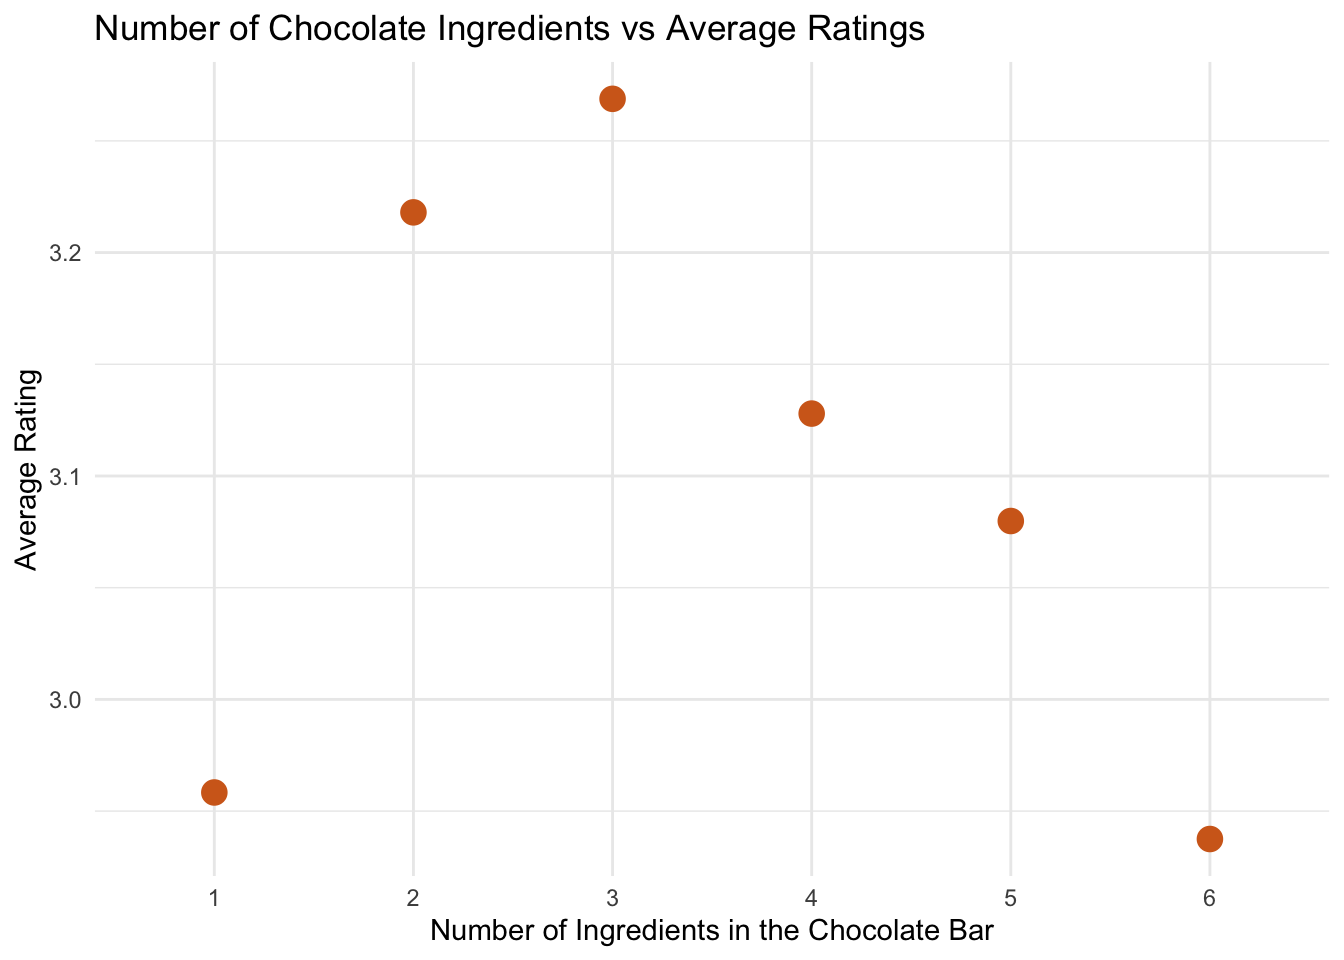
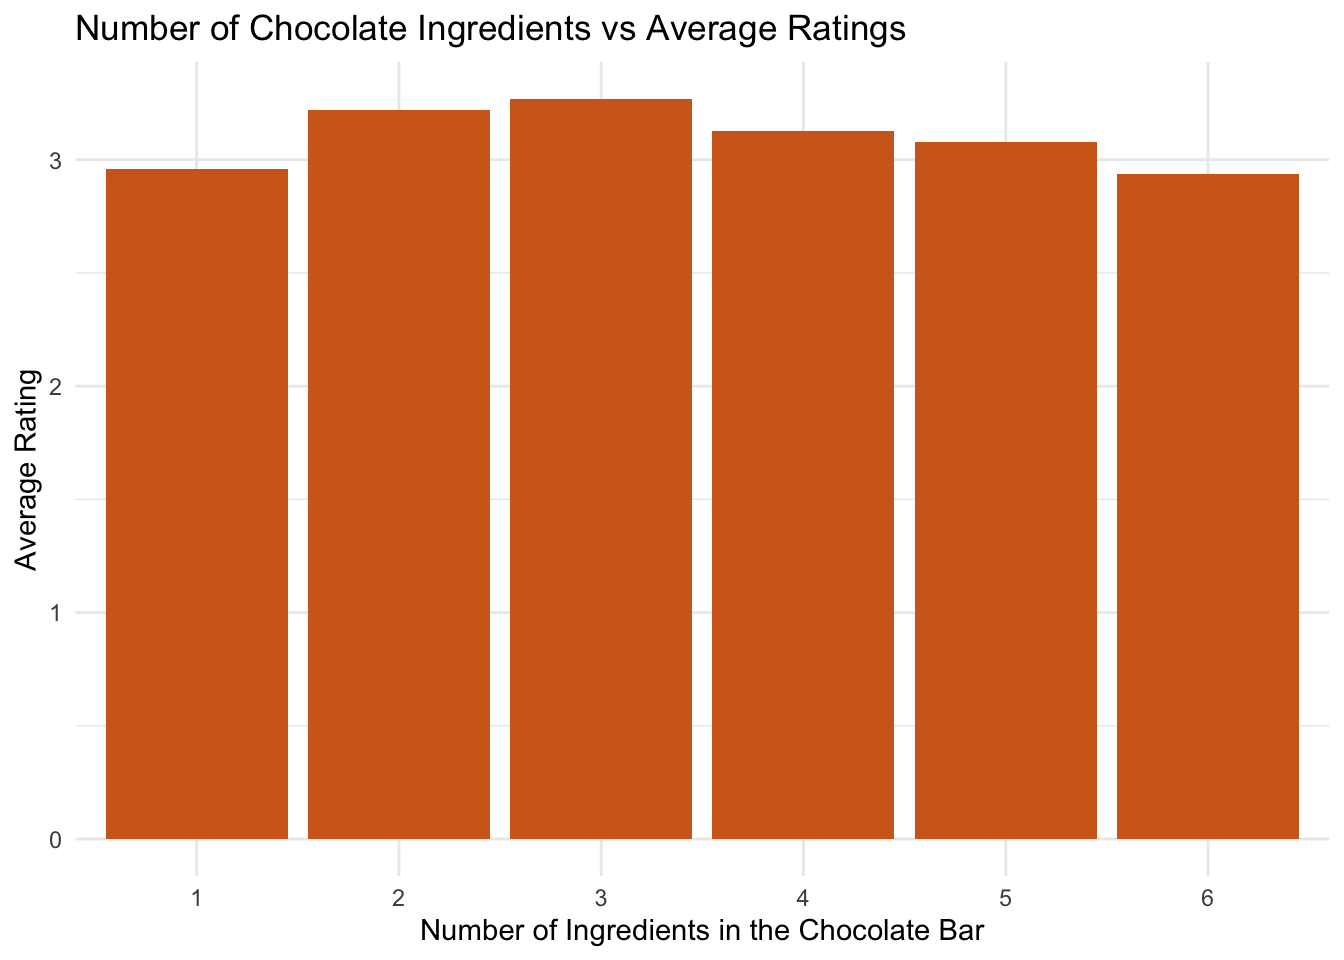
added the description for my visual

diff --git a/docs/chocolate.html b/docs/chocolate.html
@@ -426,16 +426,16 @@ pre > code.sourceCode > span > a:first-child::before { text-decoration: underlin
 </section>
 <section id="visualizing-our-data" class="level1">
 <h1>Visualizing our Data</h1>
-<p>Before we start with our simulation, let’s visualize what the relationship is between the number of ingredients in a chocolate bar and the rating.</p>
+<p>Before starting our simulation, we should first visualize the relationship between the number of ingredients in a chocolate bar and its average rating. To do this, I grouped the chocolate bars by their number of ingredients and calculated the average rating for each group.</p>
 <div class="cell">
 <details class="code-fold">
 <summary>Show the code</summary>
 <div class="code-copy-outer-scaffold"><div class="sourceCode cell-code" id="cb3"><pre class="sourceCode r code-with-copy"><code class="sourceCode r"><span id="cb3-1"><a href="#cb3-1" aria-hidden="true" tabindex="-1"></a>chocolate_two <span class="sc">|&gt;</span></span>
 <span id="cb3-2"><a href="#cb3-2" aria-hidden="true" tabindex="-1"></a>    <span class="fu">group_by</span>(num_ingredients) <span class="sc">|&gt;</span></span>
-<span id="cb3-3"><a href="#cb3-3" aria-hidden="true" tabindex="-1"></a>    <span class="fu">summarize</span>(<span class="at">mean_rating =</span> <span class="fu">mean</span>(rating, <span class="at">na.rm =</span> <span class="cn">TRUE</span>)) <span class="sc">|&gt;</span></span>
-<span id="cb3-4"><a href="#cb3-4" aria-hidden="true" tabindex="-1"></a>    <span class="fu">ggplot</span>(<span class="fu">aes</span>(<span class="at">x =</span> num_ingredients, <span class="at">y =</span> mean_rating)) <span class="sc">+</span> </span>
-<span id="cb3-5"><a href="#cb3-5" aria-hidden="true" tabindex="-1"></a>    <span class="fu">geom_line</span>(<span class="at">color =</span> <span class="st">"#8B4513"</span>) <span class="sc">+</span></span>
-<span id="cb3-6"><a href="#cb3-6" aria-hidden="true" tabindex="-1"></a>    <span class="fu">geom_point</span>(<span class="at">color =</span> <span class="st">"#D2691E"</span>, <span class="at">size =</span> <span class="dv">4</span>) <span class="sc">+</span></span>
+<span id="cb3-3"><a href="#cb3-3" aria-hidden="true" tabindex="-1"></a>    <span class="fu">summarize</span>(</span>
+<span id="cb3-4"><a href="#cb3-4" aria-hidden="true" tabindex="-1"></a>        <span class="at">mean_rating =</span> <span class="fu">mean</span>(rating, <span class="at">na.rm =</span> <span class="cn">TRUE</span>)) <span class="sc">|&gt;</span></span>
+<span id="cb3-5"><a href="#cb3-5" aria-hidden="true" tabindex="-1"></a>    <span class="fu">ggplot</span>(<span class="fu">aes</span>(<span class="at">x =</span> num_ingredients, <span class="at">y =</span> mean_rating)) <span class="sc">+</span> </span>
+<span id="cb3-6"><a href="#cb3-6" aria-hidden="true" tabindex="-1"></a>    <span class="fu">geom_col</span>(<span class="at">fill =</span> <span class="st">"chocolate"</span>) <span class="sc">+</span></span>
 <span id="cb3-7"><a href="#cb3-7" aria-hidden="true" tabindex="-1"></a>    <span class="fu">labs</span>(</span>
 <span id="cb3-8"><a href="#cb3-8" aria-hidden="true" tabindex="-1"></a>        <span class="at">title =</span> <span class="st">"Number of Chocolate Ingredients vs Average Ratings"</span>,</span>
 <span id="cb3-9"><a href="#cb3-9" aria-hidden="true" tabindex="-1"></a>        <span class="at">x =</span> <span class="st">"Number of Ingredients in the Chocolate Bar"</span>,</span>
@@ -451,6 +451,8 @@ pre > code.sourceCode > span > a:first-child::before { text-decoration: underlin
 </div>
 </div>
 </div>
+<p>From the plot, we can see that the average ratings range from approximately 2.95 to 3.30, with chocolate bars containing 3 ingredients having the highest average rating. At first glance, this could suggest that chocolate bars with three ingredients are associated with higher ratings. However, the differences between these averages are relatively small, meaning we cannot make this conclusion. Additionally, this plot does not tell us whether these differences are statistically significant or whether they are due to random variation.</p>
+<p>Because of this, we will use a simulation (specifically, a permutation test) to test whether our data provides sufficient evidence of a relationship between the number of ingredients in a chocolate bar and its rating.</p>
 
 
 </section>
